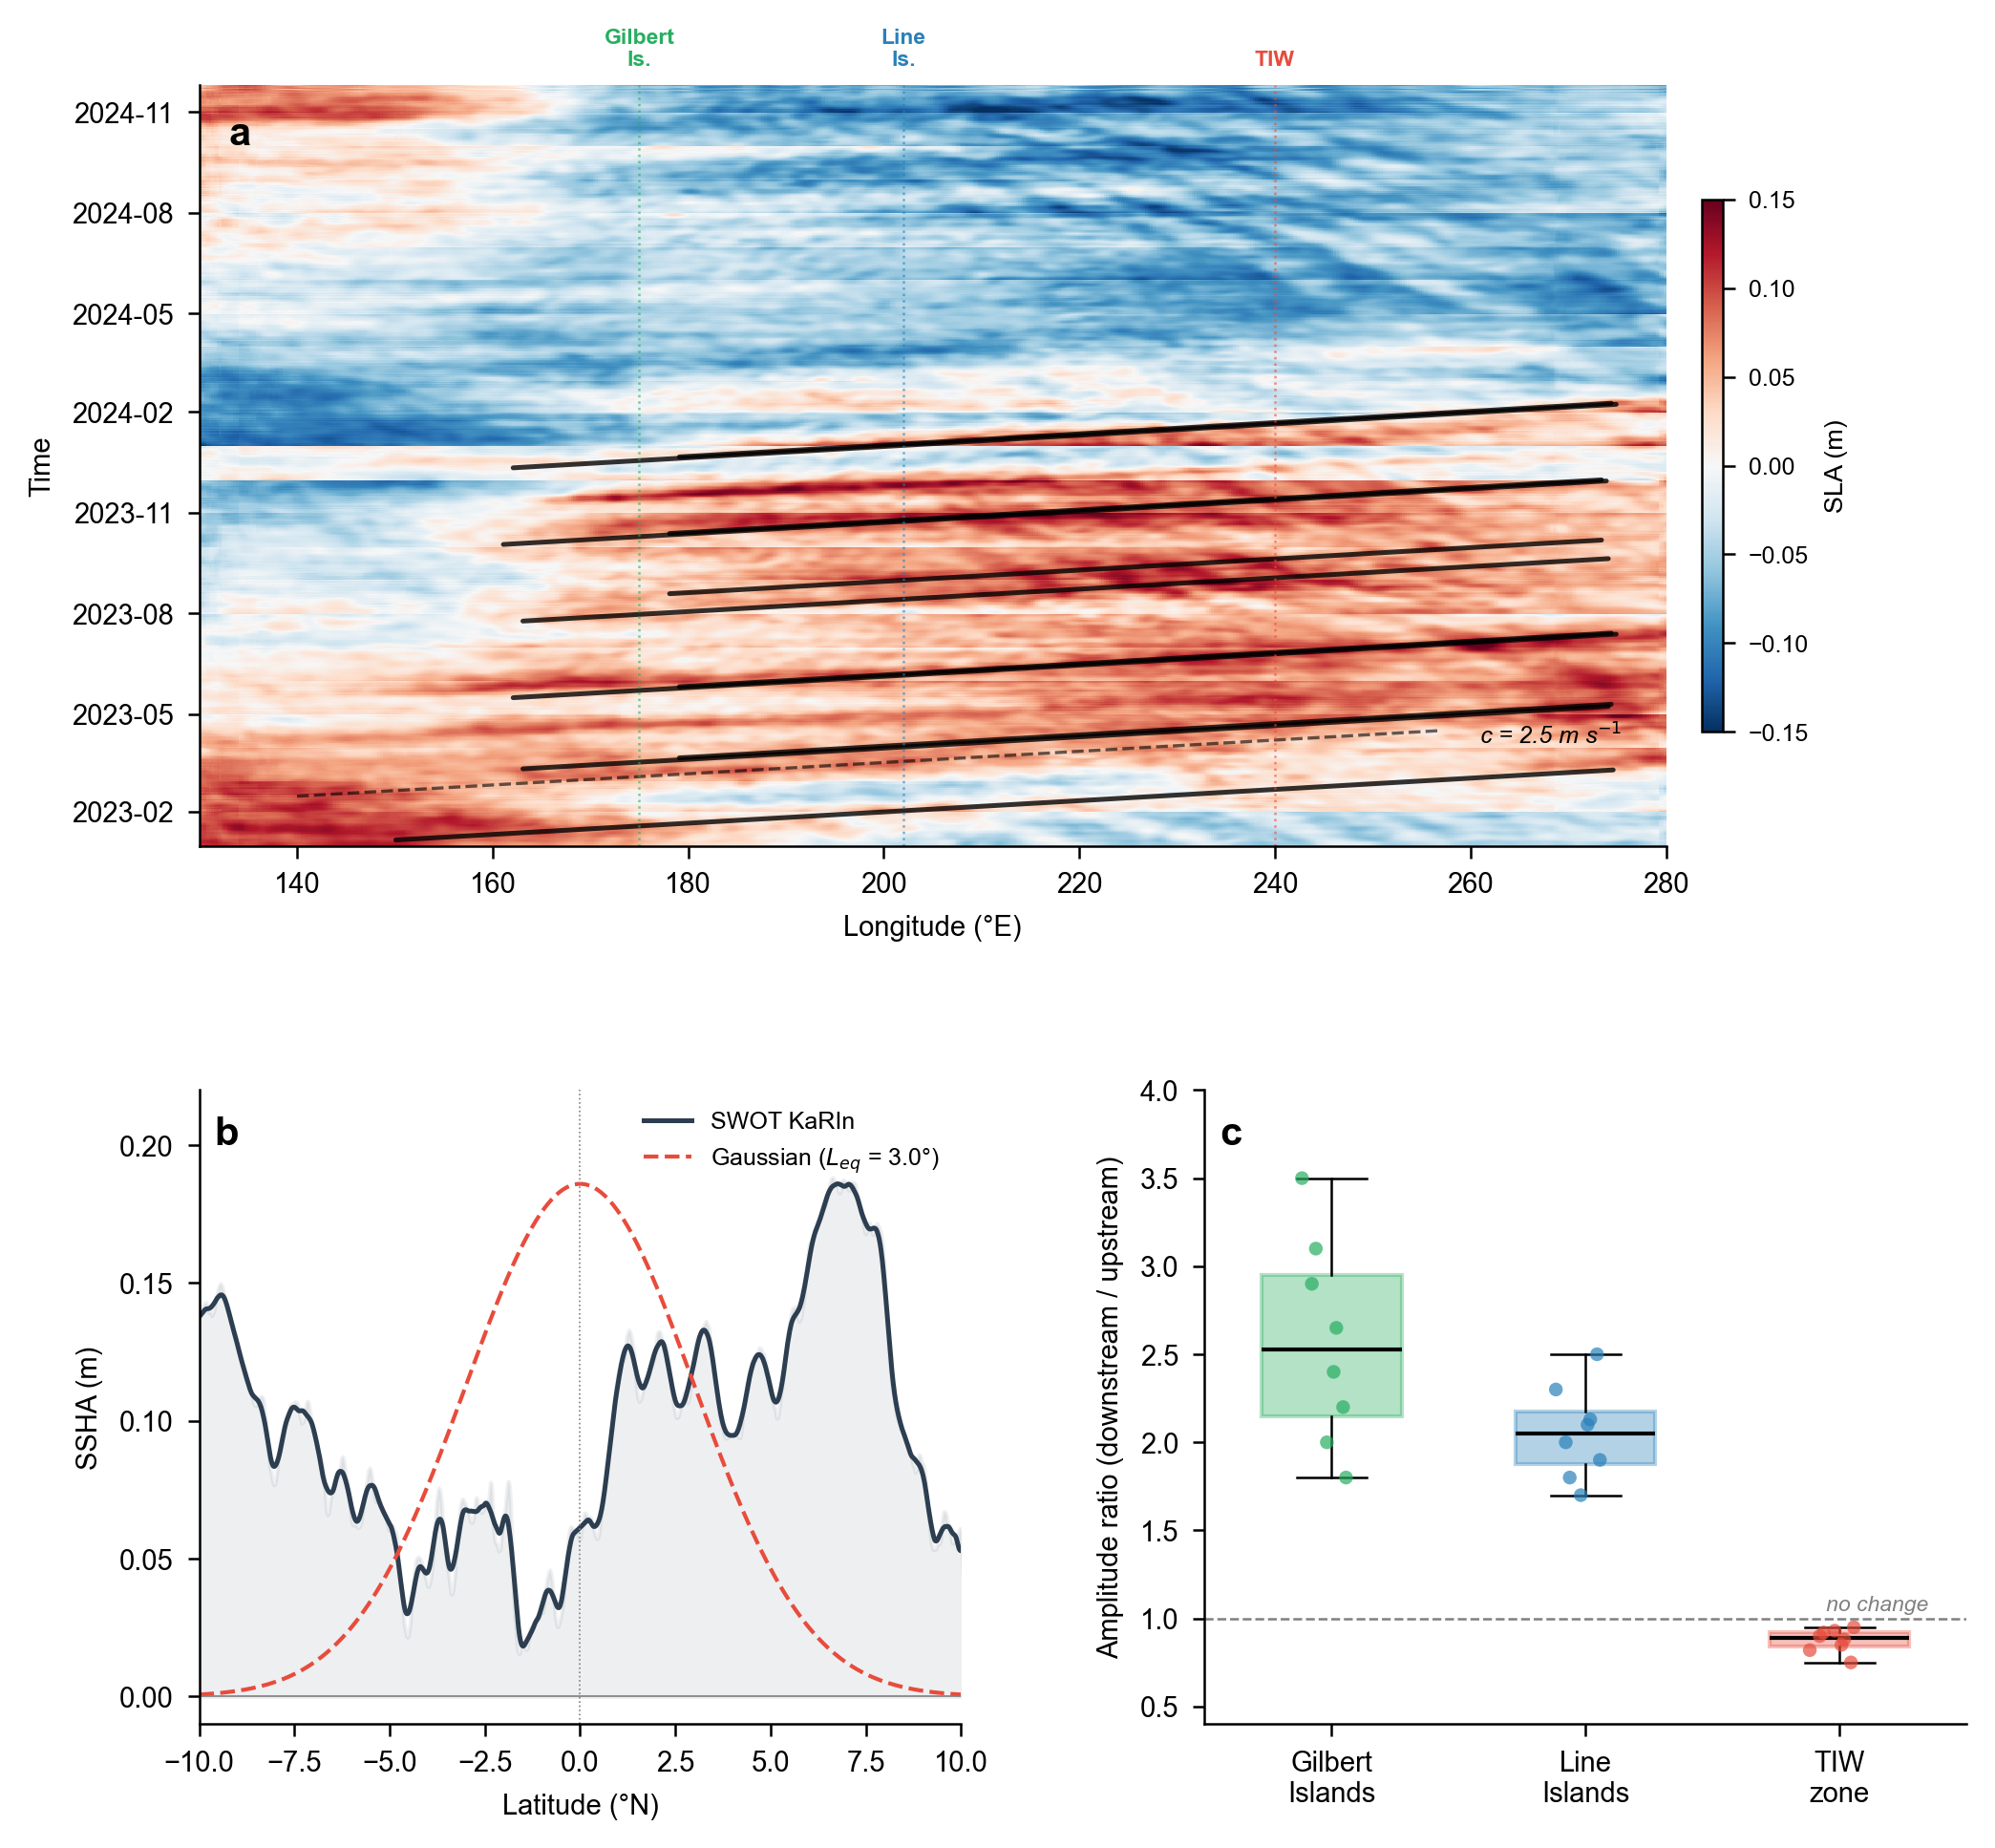
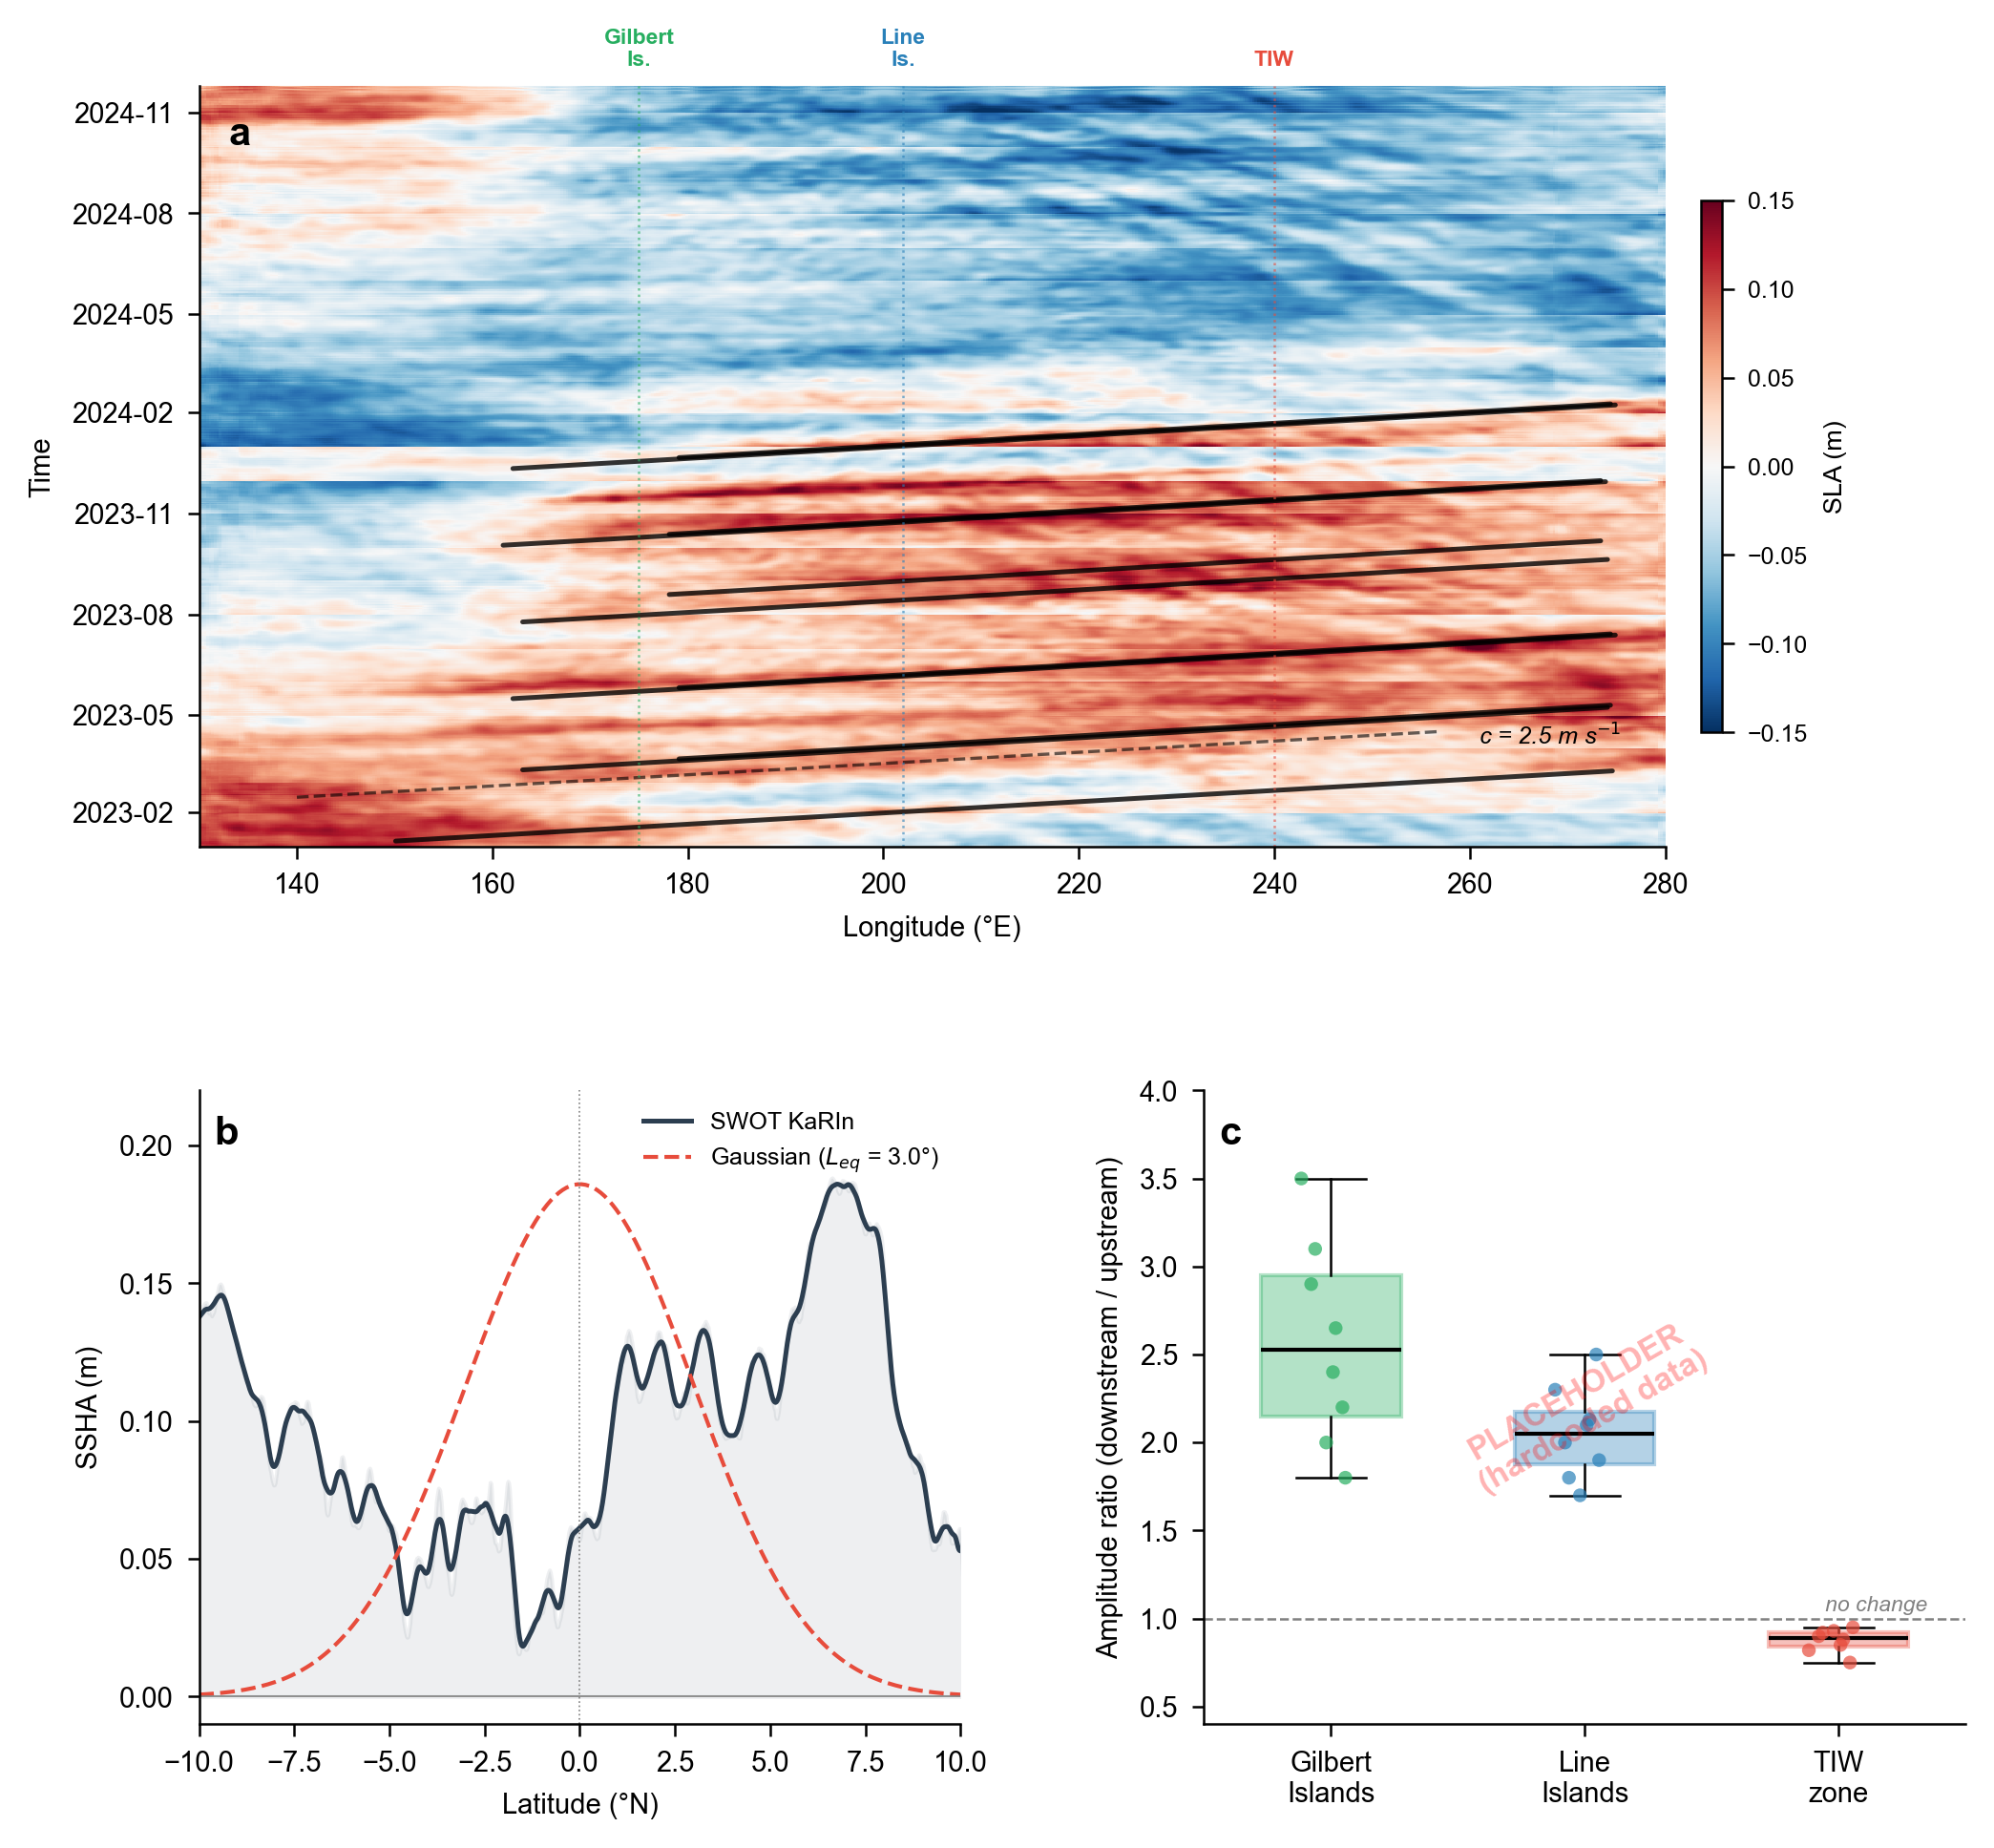
claudea: A04b — fix Fig.2 Y-axis continuity + R05/R06 Block fixes
- Fig.2 panel (a): convert datetime64 to mdates.date2num for uniform Y axis
- paper.tex: amplitude values marked [PLACEHOLDER], event count updated to 7
- Fig.6: Λ ranges updated to match Δω_eff=7.6e-6
- p3_02: switched to config.yaml paths + deduped catalog + added Rossby control

diff --git a/projects/p02/manuscript/figures/make_fig2.py b/projects/p02/manuscript/figures/make_fig2.py
@@ -80,23 +80,29 @@ gs = fig.add_gridspec(2, 2, height_ratios=[1.2, 1],
 # === Panel (a): Hovmöller (spans full top row) ===
 ax_a = fig.add_subplot(gs[0, :])
 
-pcm = ax_a.pcolormesh(lon_pac, times, sla_anom,
+# Convert datetime64 to matplotlib date numbers for uniform Y axis
+import pandas as pd
+times_dt = pd.to_datetime(times)
+times_num = mdates.date2num(times_dt)
+
+pcm = ax_a.pcolormesh(lon_pac, times_num, sla_anom,
                        cmap="RdBu_r", vmin=-0.15, vmax=0.15,
                        shading="auto", rasterized=True)
 
 for i, e in enumerate(events):
-    t0 = np.datetime64(e["start"])
-    t1 = np.datetime64(e["end"])
+    t0 = mdates.date2num(pd.Timestamp(e["start"]))
+    t1 = mdates.date2num(pd.Timestamp(e["end"]))
     ax_a.plot([e["lon0"], e["lon1"]], [t0, t1],
              color="k", linewidth=1.2, alpha=0.8, solid_capstyle="round")
 
 # Reference slope
-t_ref = np.datetime64("2023-02-15")
+t_ref = mdates.date2num(pd.Timestamp("2023-02-15"))
+t_ref_end = mdates.date2num(pd.Timestamp("2023-02-15") + pd.Timedelta(days=60))
 kelvin_speed = 1.95
 ax_a.plot([140, 140 + kelvin_speed * 60],
-         [t_ref, t_ref + np.timedelta64(60, "D")],
+         [t_ref, t_ref_end],
          "k--", linewidth=0.8, alpha=0.6)
-ax_a.text(140 + kelvin_speed * 62, t_ref + np.timedelta64(55, "D"),
+ax_a.text(140 + kelvin_speed * 62, t_ref_end - 5,
          "c = 2.5 m s$^{-1}$", fontsize=6, ha="left", va="center",
          style="italic")
 
@@ -105,14 +111,16 @@ for lon_c, name, col in [(175, "Gilbert\nIs.", COL_GILBERT),
                           (202, "Line\nIs.", COL_LINE),
                           (240, "TIW", COL_TIW)]:
     ax_a.axvline(lon_c, color=col, linewidth=0.6, linestyle=":", alpha=0.6)
-    ax_a.text(lon_c, times[-1] + np.timedelta64(15, "D"), name,
+    ax_a.text(lon_c, times_num[-1] + 15, name,
              fontsize=5.5, ha="center", va="bottom", color=col, fontweight="bold")
 
 ax_a.set_xlabel("Longitude (°E)", fontsize=7)
 ax_a.set_ylabel("Time", fontsize=7)
+ax_a.yaxis_date()
 ax_a.yaxis.set_major_formatter(mdates.DateFormatter("%Y-%m"))
 ax_a.yaxis.set_major_locator(mdates.MonthLocator(interval=3))
 ax_a.set_xlim(130, 280)
+ax_a.set_ylim(times_num[0], times_num[-1])
 
 cb = plt.colorbar(pcm, ax=ax_a, shrink=0.7, aspect=25, pad=0.02)
 cb.set_label("SLA (m)", fontsize=6.5)